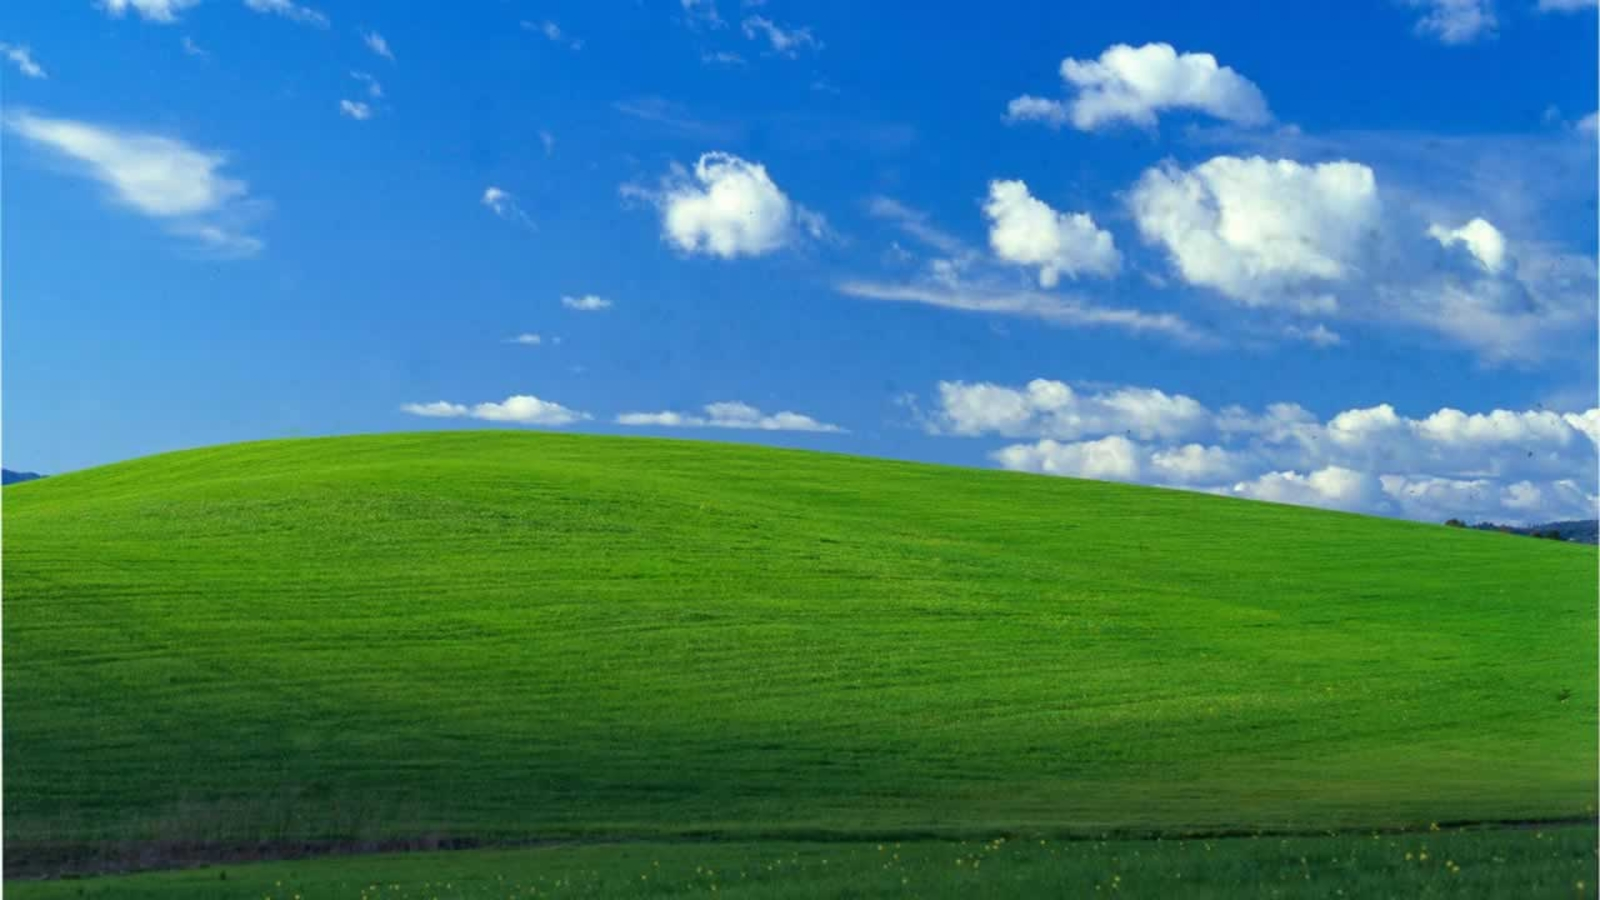
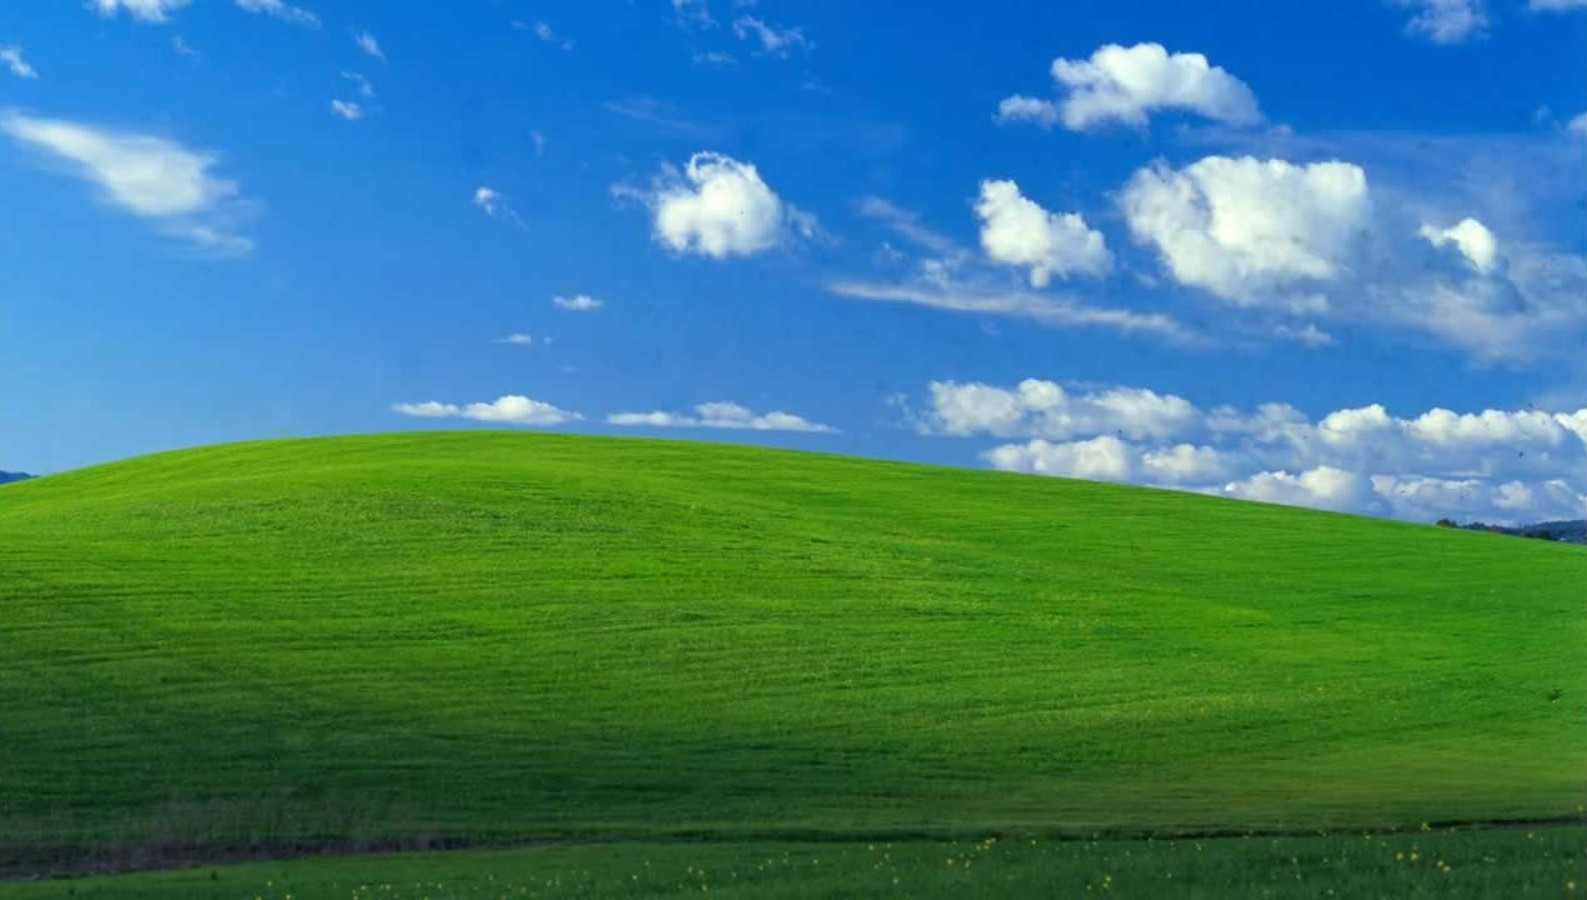
High Res BG

diff --git a/index.html b/index.html
@@ -276,7 +276,7 @@ html,body{width:100%;height:100%;overflow:hidden;font-family:var(--font);backgro
 <div id="desktop">
   <!-- Bliss Wallpaper -->
   <div id="wallpaper">
-    <img src="bliss.jpg" alt="Bliss">
+    <img src="bliss_upscayl_2x_high-fidelity-4x.png" alt="Bliss">
   </div>
 
   <!-- Desktop Icons -->
